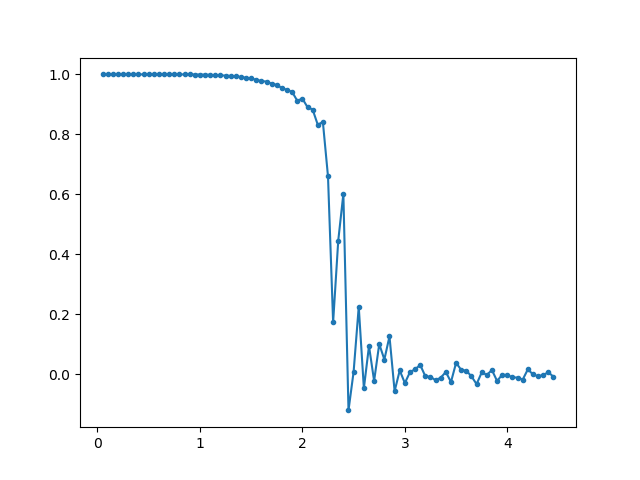
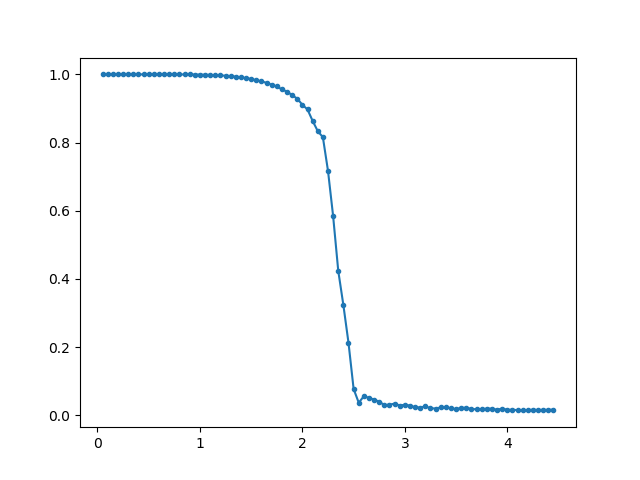
Some parameter changes

diff --git a/Ising Model/Temperatures/tempC/ising.cpp b/Ising Model/Temperatures/tempC/ising.cpp
@@ -3,11 +3,11 @@
 #include<cmath>
 #include<fstream>
 #include<cstdlib>
-const int Nx=25;
-const int Ny=25;
+const int Nx=100;
+const int Ny=100;
 const int N=1000;
 const double J=1.;
-const double h=.1;
+const double h=1.;
 typedef std::vector<std::vector<double> > matrix;
 void get_mem(matrix & m);
 void print(matrix & m);
@@ -25,7 +25,7 @@ int main(int argc, char * argv[]){
   double H=h;
   std::ofstream File(argv[1]);
   std::ofstream File2(argv[2]);
-  File.precision(16); File2.precision(16);  
+  File.precision(16); File2.precision(16);
   for (int t=0;t<N*Number;t++){
     if(t==(int) N*Number/2.){H=0.;}
     Time_Step(ising,kbT,H);
@@ -47,7 +47,7 @@ double mag=0;
 	mag+=m[x][y];
 	}
 }
-return mag/(Nx*Ny);
+return fabs(mag)/(Nx*Ny);
 }
 double calculate_sus(const matrix & m){
   double sus=0;
